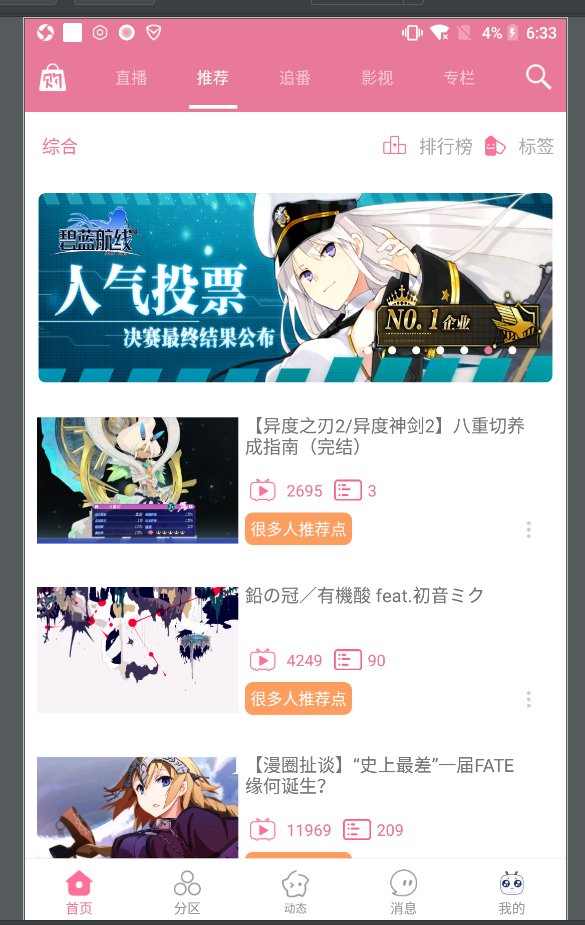
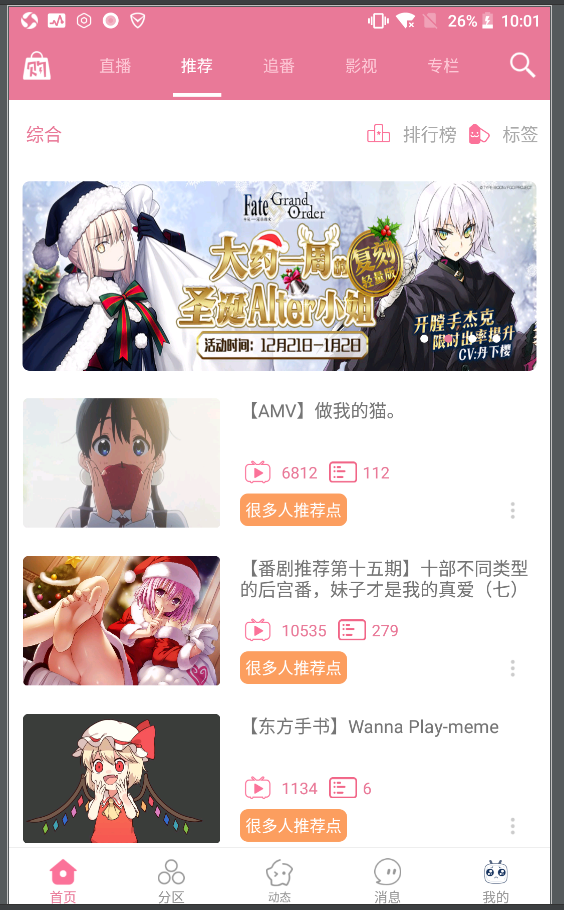
Munccc

diff --git a/app/src/main/java/app/munc/munccoordinator/fragment/homepage/page1/RecommendFragment.java b/app/src/main/java/app/munc/munccoordinator/fragment/homepage/page1/RecommendFragment.java
@@ -87,6 +87,8 @@ public class RecommendFragment extends Fragment {
     private boolean isExecuteRefresh = false;
     private boolean isExecuteLoadMore = false;
     private RelativeLayout rlBanner;
+    List unBannerlist = new ArrayList();//首页列表数据 不包括轮播
+
 
     private Handler handler = new Handler() {
         @Override
@@ -97,7 +99,7 @@ public class RecommendFragment extends Fragment {
                     break;
                 case LOAD_PRODUCT_SUCESS:
                     if (isExecuteRefresh) {
-                        mAdapter.setDatas(data);
+                        mAdapter.setDatas(unBannerlist);
                         twinklingRefreshLayout.finishRefreshing();
                         isExecuteRefresh = false;
                     } else if (isExecuteLoadMore) {
@@ -157,7 +159,10 @@ public class RecommendFragment extends Fragment {
             @Override
             public void onResponse(Call<IndexInfo> call, Response<IndexInfo> response) {
                 data = response.body().getData();
-
+                //这里从1开始
+                for (int i = 1; i < data.size(); i++) {
+                    unBannerlist.add(data.get(i));
+                }
                 banner_item = response.body().getData().get(0).getBanner_item();
                 handler.obtainMessage(LOAD_BANNER_SUCESS, response).sendToTarget();
                 handler.obtainMessage(LOAD_PRODUCT_SUCESS, response).sendToTarget();
@@ -177,7 +182,7 @@ public class RecommendFragment extends Fragment {
                 .addConverterFactory(GsonConverterFactory.create(new GsonBuilder().create()))
                 .build();
         ResponseCommonService service = retrofit.create(ResponseCommonService.class);
-        Call<IndexInfo> call = service.getIndex2(CommonContent.actionKey, CommonContent.appkey, CommonContent.banner_hash, CommonContent.build,
+        Call<IndexInfo> call = service.getIndex2(CommonContent.actionKey, CommonContent.appkey, "", CommonContent.build,
                 CommonContent.device, CommonContent.idx, CommonContent.mobi_app, CommonContent.network
                 , CommonContent.open_event, CommonContent.platform, CommonContent.pull, Utils.getUUid(), CommonContent.style, CommonContent.ts);
         call.enqueue(new Callback<IndexInfo>() {
@@ -185,8 +190,8 @@ public class RecommendFragment extends Fragment {
             public void onResponse(Call<IndexInfo> call, Response<IndexInfo> response) {
                 data = response.body().getData();
                 banner_item = response.body().getData().get(0).getBanner_item();
-                handler.obtainMessage(LOAD_BANNER_SUCESS, response).sendToTarget();
 
+                handler.obtainMessage(LOAD_PRODUCT_SUCESS, response).sendToTarget();
             }
 
             @Override

diff --git a/app/src/main/java/app/munc/munccoordinator/adapter/homepage/RecommendAdapter.java b/app/src/main/java/app/munc/munccoordinator/adapter/homepage/RecommendAdapter.java
@@ -71,7 +71,7 @@ public class RecommendAdapter extends RecyclerView.Adapter<RecyclerView.ViewHold
 
         if (holder instanceof HeaderViewHolder) {
         } else if (holder instanceof RcRecommendBody) {
-            IndexInfo.DataBean dataBean = dataAll.get(position);
+            IndexInfo.DataBean dataBean = dataAll.get(position - 1);
             Glide.with(mContext.getApplicationContext())
                     .load(dataBean.getCover())
                     .diskCacheStrategy(DiskCacheStrategy.SOURCE)
